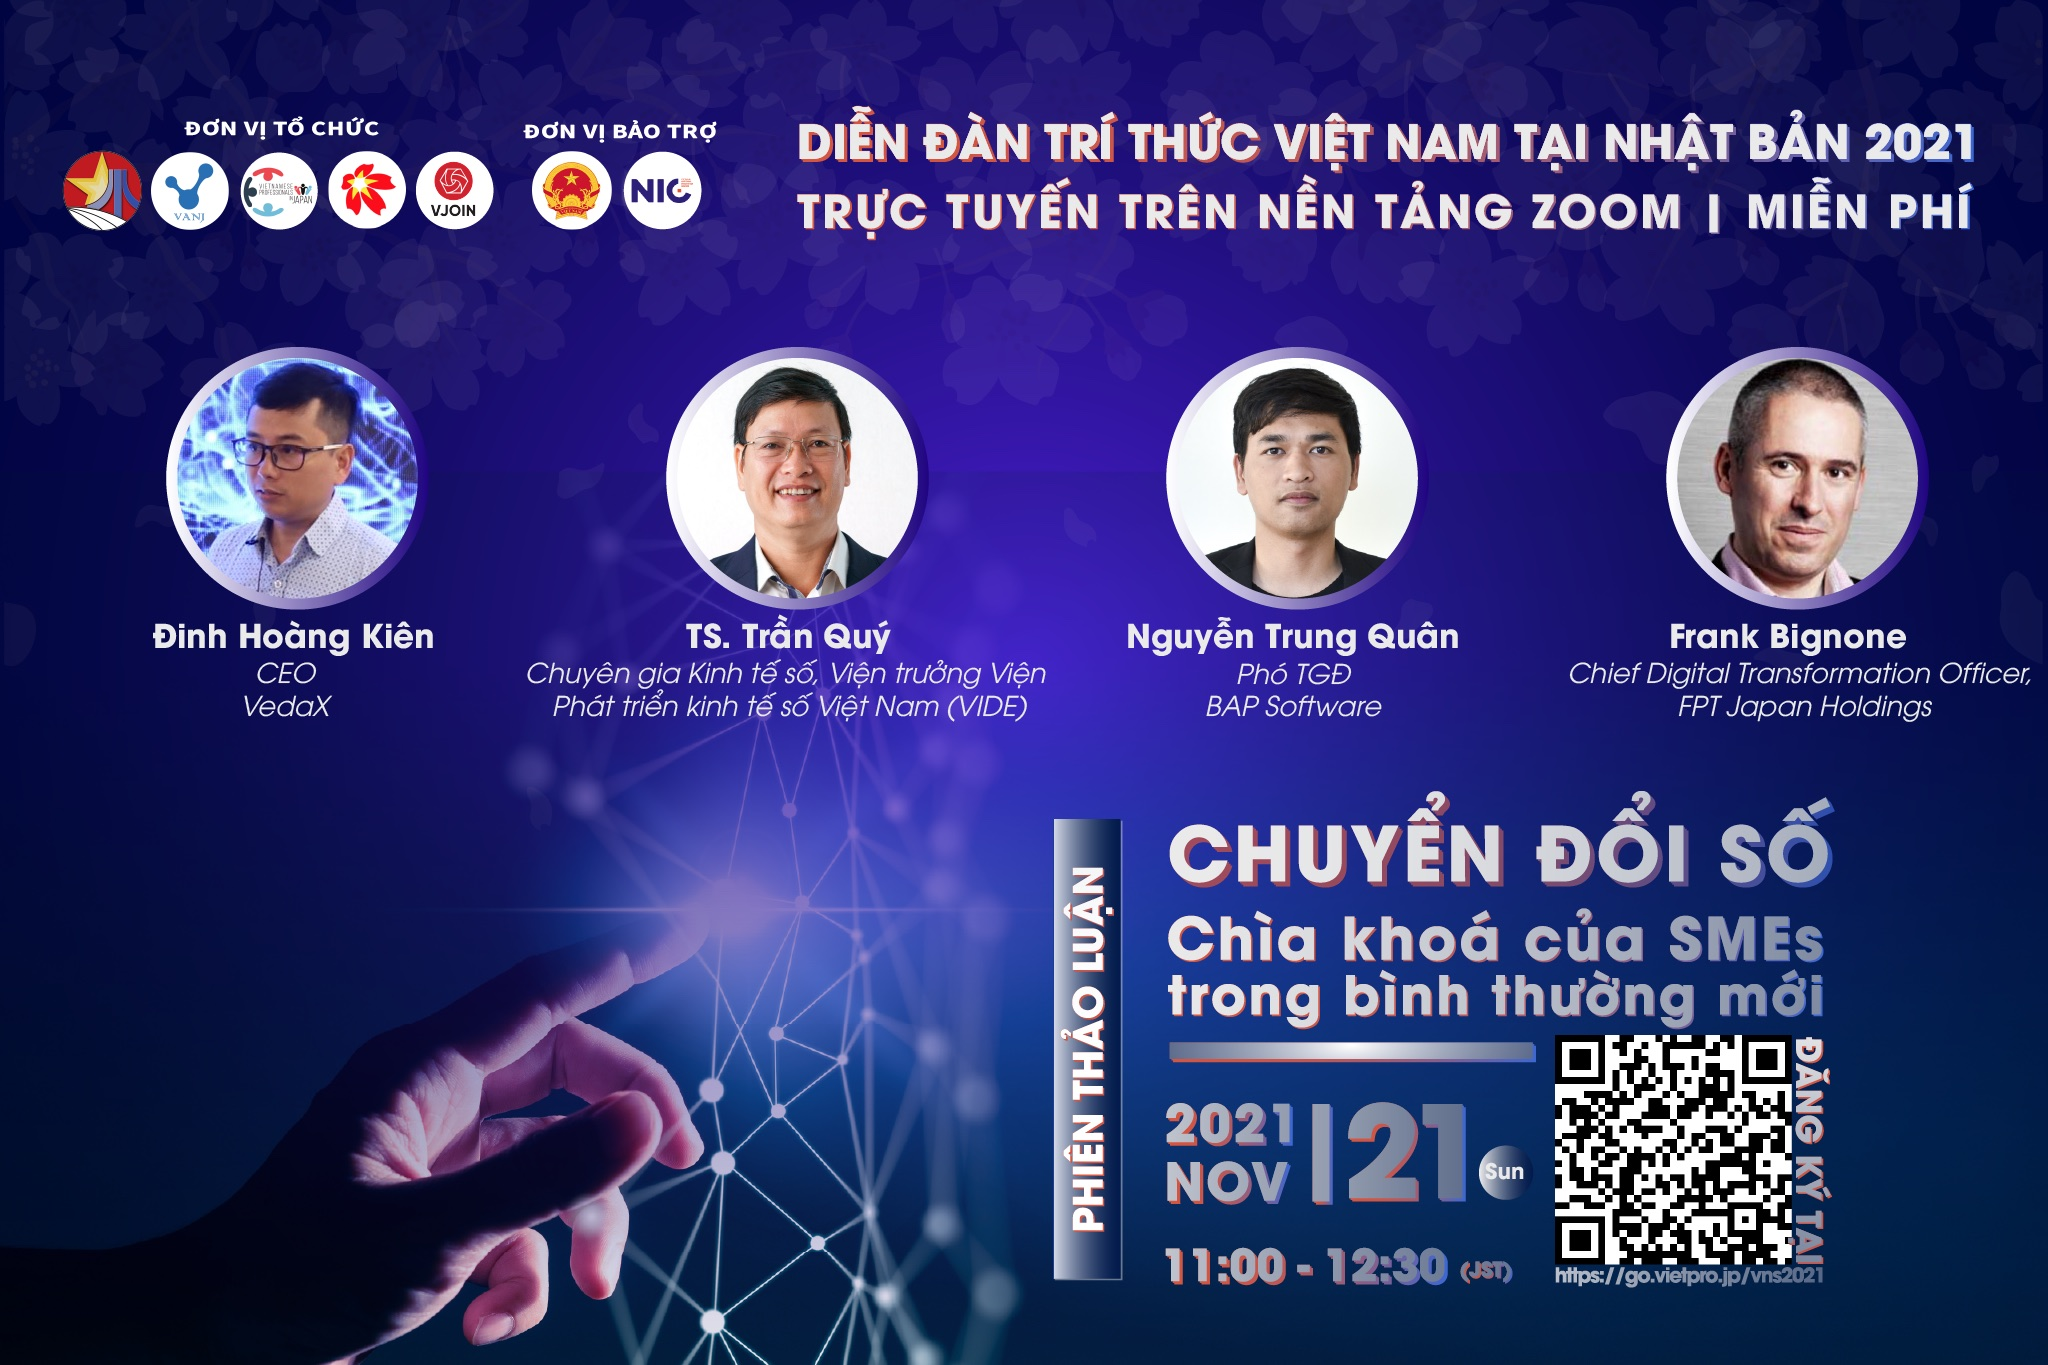
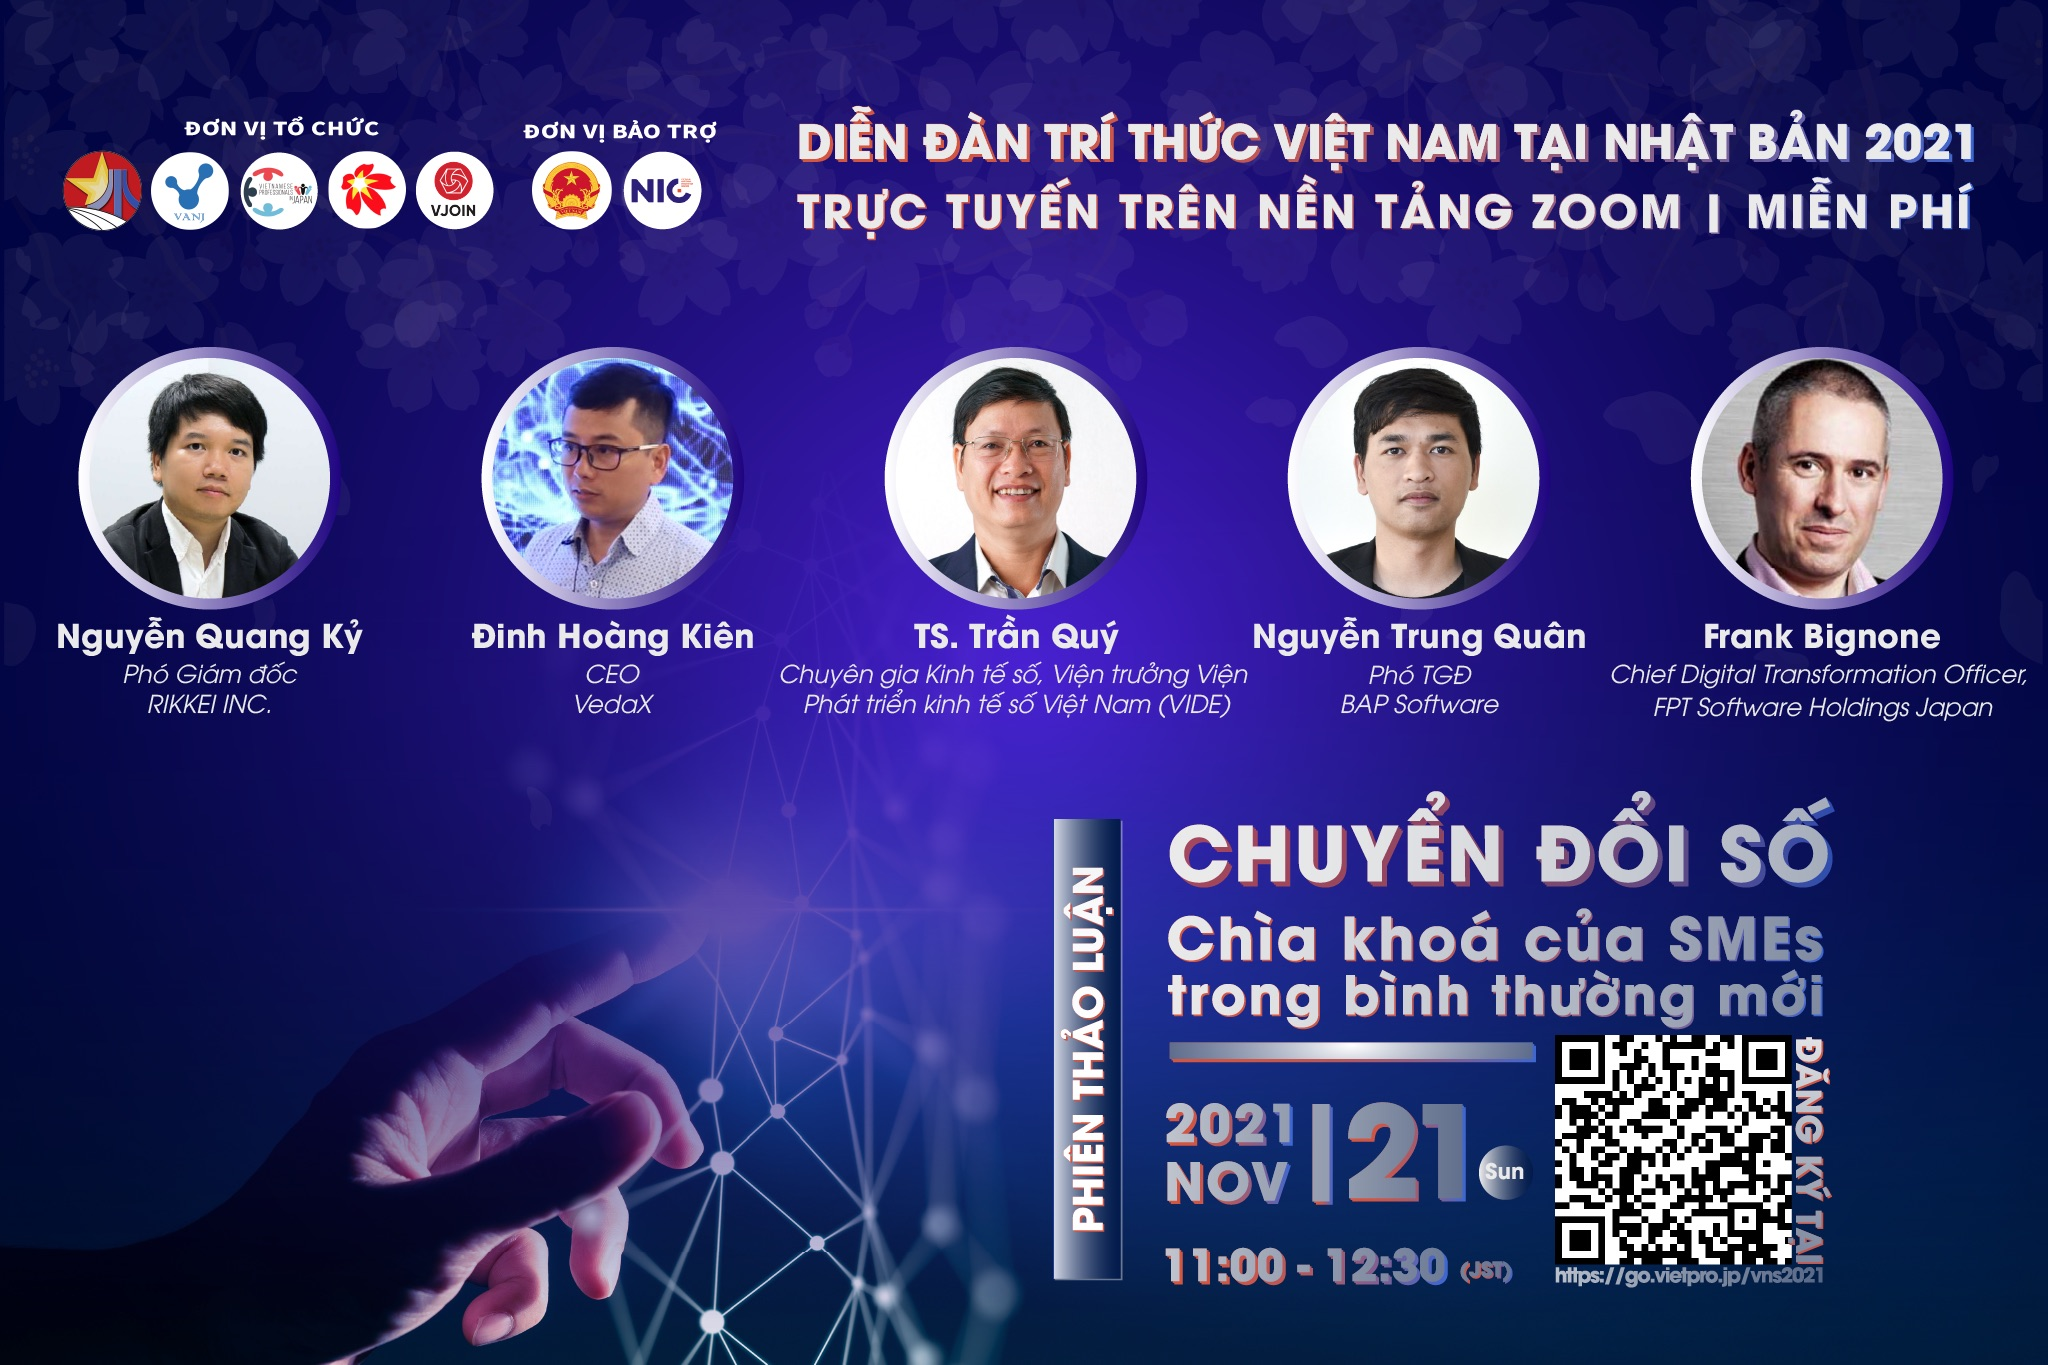
update speaker chuyen doi so

diff --git a/speaker-nguyen-quang-ky.html b/speaker-nguyen-quang-ky.html
@@ -2,7 +2,7 @@
 <html class="wide wow-animation" lang="en">
 
 <head>
-  <title>Vietnam Summit 2021: Phiên thảo luận CHUYỂN ĐỔI SỐ</title>
+  <title>Vietnam Summit in Japan 2021</title>
   <meta charset="utf-8">
   <meta name="viewport" content="width=device-width, height=device-height, initial-scale=1.0">
   <meta http-equiv="X-UA-Compatible" content="IE=edge">
@@ -15,9 +15,9 @@
   <link rel="stylesheet" href="https://unpkg.com/aos@next/dist/aos.css" />
 
   <!-- OG description  -->
-  <meta property="og:title" content="Vietnam Summit 2021: Phiên thảo luận CHUYỂN ĐỔI SỐ" />
-  <meta property="og:description" content="Chìa khoá của SMEs trong “bình thường mới”" />
-  <meta property="og:image" content="https://vietnamsummit.org/images/poster_chuyen_doi_so.jpg" />
+  <!-- <meta property="og:title" content="Vietnam Summit 2021: Phiên thảo luận SMART CITY" />
+  <meta property="og:description" content="Phiên thảo luận e-learning" />
+  <meta property="og:image" content="https://vietnamsummit.org/images/cover_background_vie.jpg" /> -->
 
   <style>
     .ie-panel {
@@ -107,111 +107,55 @@
     </header>
     <section class="section overflow-hidden mt-2" id="speaker">
       <div class="container">
-        <h4 class="mt-2">Phiên thảo luận CHUYỂN ĐỔI SỐ</h4>
+        <h4 class="mt-2">Thông tin diễn giả</h4>
         <br>
-        <h3 style="line-height: 1.1;">Chìa khoá của SMEs trong “bình thường mới”</h3>
-        <!-- <p class="speaker-title">Chủ tịch tập đoàn FPT</p> -->
-        <img src="./images/poster_chuyen_doi_so.jpg" />
+        <h3 style="line-height: 1.1;">Nguyễn Quang Kỷ
+        </h3>
+        <p class="speaker-title">Phó Giám đốc RIKKEI INC.
+        </p>
+
+        <img src="./images/speaker-nguyen-quang-ky.jpeg" />
         <br>
         <!--Begin content-->
-        <div class="small">
+        
 
 
-          <p><span style="font-size:16px"><span style="font-family:Arial"><span style="color:#000000">Đại dịch Covid-19
-                  đ&atilde; v&agrave; đang thay đổi c&aacute;ch thức m&agrave; thế giới n&agrave;y vận h&agrave;nh, ảnh
-                  hưởng kh&ocirc;ng chỉ đối với mỗi c&aacute; nh&acirc;n, m&agrave; lan rộng cả nền kinh tế to&agrave;n
-                  cầu. Để th&iacute;ch ứng với trạng th&aacute;i &ldquo;b&igrave;nh thường mới&rdquo;, c&aacute;c doanh
-                  nghiệp, đặc biệt l&agrave; c&aacute;c doanh nghiệp vừa v&agrave; nhỏ (SMEs) buộc phải tiến h&agrave;nh
-                  những thay đổi từ cải c&aacute;ch nội bộ, cải tiến c&aacute;ch thức vận h&agrave;nh doanh nghiệp đến
-                  thay đổi m&ocirc; h&igrave;nh kinh doanh. V&agrave; chuyển đổi số được xem l&agrave; xu hướng của
-                  c&aacute;c doanh nghiệp hiện nay, l&agrave; chiếc ch&igrave;a kho&aacute; quyết định cho sự
-                  ph&aacute;t triển của doanh nghiệp trong thời kỳ kh&oacute; khăn hiện tại.</span></span></span></p>
+        
 
-          <p><span style="font-size:16px"><span style="font-family:Arial"><span style="color:#000000">Mặc d&ugrave; đại
-                  dịch đ&atilde; gi&uacute;p n&acirc;ng cao nhận thức của doanh nghiệp về chuyển đổi số, cũng như vai
-                  tr&ograve; v&agrave; hiệu quả m&agrave; xu hướng n&agrave;y mang lại trong doanh nghiệp. Tuy
-                  nhi&ecirc;n để thực hiện th&agrave;nh c&ocirc;ng chuyển đổi số kh&ocirc;ng phải l&agrave; chuyện dễ
-                  d&agrave;ng. Khi &aacute;p dụng chuyển đổi số, doanh nghiệp cần phải nắm bắt nền kinh tế số, b&ecirc;n
-                  cạnh đ&oacute; l&atilde;nh đạo phải c&oacute; quyết t&acirc;m thay đổi một c&aacute;ch to&agrave;n
-                  diện, chuyển đổi từ tư duy l&agrave;m việc truyền thống sang c&aacute;ch thức l&agrave;m việc mới,
-                  li&ecirc;n tục t&igrave;m t&ograve;i, thử nghiệm v&agrave; l&agrave;m quen với việc thất bại, cũng như
-                  cần giải quyết b&agrave;i to&aacute;n tối ưu ho&aacute; được lợi &iacute;ch từ chi ph&iacute; cho
-                  c&ocirc;ng cuộc thay đổi doanh nghiệp n&agrave;y.</span></span></span></p>
 
-          <p><span style="font-size:16px"><span style="font-family:Arial"><span style="color:#000000">Chuyển đổi số -
-                  Ch&igrave;a kho&aacute; của SMEs trong &ldquo;b&igrave;nh thường mới&rdquo; sẽ l&agrave; chủ đề của
-                  phi&ecirc;n thảo luận chuy&ecirc;n s&acirc;u trong số c&aacute;c buổi tọa đ&agrave;m chuy&ecirc;n đề
-                  tại Diễn đ&agrave;n Tri thức Việt Nam Nhật Bản 2021. Th&ocirc;ng qua session n&agrave;y, những
-                  chuy&ecirc;n gia, nh&agrave; l&atilde;nh đạo doanh nghiệp đang hoạt động ở Việt Nam v&agrave; Nhật Bản
-                  sẽ đưa ra những g&oacute;c nh&igrave;n về chuyển đổi số, v&agrave; c&ugrave;ng với đ&oacute; l&agrave;
-                  những giải ph&aacute;p m&agrave; c&aacute;c doanh nghiệp đ&atilde; v&agrave; đang thực hiện để ứng
-                  ph&oacute; với đại dịch hiện nay.</span></span></span></p>
 
-          <p><span style="font-size:16px"><span style="font-family:Arial"><span style="color:#000000">C&aacute;c diễn
-                  giả tại phi&ecirc;n thảo luận :</span></span></span></p>
-
-          <ul>
-            <li style="list-style-type:disc"><span style="font-size:16px"><span style="font-family:Arial"><span
-                    style="color:#000000">Anh </span></span><a
-                  href="speaker-nguyen-quang-ky.html"
-                  style="text-decoration:none"><span style="font-family:Arial"><span style="color:#1155cc"><u>Nguyễn
-                        Quang Kỷ</u></span></span></a><span style="font-family:Arial"><span style="color:#000000"> -
-                    Ph&oacute; Gi&aacute;m đốc Rikkei Inc.</span></span></span></li>
-            <li style="list-style-type:disc"><span style="font-size:16px"><span style="font-family:Arial"><span
-                    style="color:#000000">Anh </span></span><a href="./speaker-dinh-hoang-kien.html"
-                  style="text-decoration:none"><span style="font-family:Arial"><span style="color:#1155cc"><u>Đinh
-                        Ho&agrave;ng Ki&ecirc;n</u></span></span></a><span style="font-family:Arial"><span
-                    style="color:#000000">, CEO VedaX</span></span></span></li>
-            <li style="list-style-type:disc"><span style="font-size:16px"><span style="font-family:Arial"><span
-                    style="color:#000000">TS. </span></span><a href="./speaker-tran-quy.html"
-                  style="text-decoration:none"><span style="font-family:Arial"><span style="color:#1155cc"><u>Trần
-                        Qu&yacute;</u></span></span></a><span style="font-family:Arial"><span style="color:#000000">,
-                    chuy&ecirc;n gia Kinh tế số, Viện trưởng Viện Ph&aacute;t triển kinh tế số Việt Nam
-                    (VIDE)</span></span></span></li>
-            <li style="list-style-type:disc"><span style="font-size:16px"><span style="font-family:Arial"><span
-                    style="color:#000000">Anh </span></span><a href="./speaker-nguyen-trung-quan.html"
-                  style="text-decoration:none"><span style="font-family:Arial"><span style="color:#1155cc"><u>Nguyễn
-                        Trung Qu&acirc;n</u></span></span></a><span style="font-family:Arial"><span
-                    style="color:#000000">, Ph&oacute; TGĐ BAP Software</span></span></span></li>
-            <li style="list-style-type:disc"><span style="font-size:16px"><span style="font-family:Arial"><span
-                    style="color:#000000">Mr. </span></span><a
-                  href="https://www.linkedin.com/in/frank-bignone-12046716/" style="text-decoration:none"><span
-                    style="font-family:Arial"><span style="color:#1155cc"><u>Frank Bignone</u></span></span></a><span
-                  style="font-family:Arial"><span style="color:#000000">, Chief Digital Transformation Officer, FPT
-                    Software Holdings Japan</span></span></span></li>
+        <div class="small mt-5">
+          <h4 class="mt-5">Quá trình công tác
+          </h4>
+          <ul class="mt-2">
+            <li style="list-style-type:disc"><span style="font-size:16px"><span style="font-family:Arial"><span style="color:#000000">FPT Software (2012)</span></span></span></li>
+            <li style="list-style-type:disc"><span style="font-size:16px"><span style="font-family:Arial"><span style="color:#000000">Đồng s&aacute;ng lập Rikkeisoft (2012)</span></span></span></li>
+            <li style="list-style-type:disc"><span style="font-size:16px"><span style="font-family:Arial"><span style="color:#000000">Sang Nhật, phụ tr&aacute;ch kinh doanh Rikkei INC. (2017 - nay)</span></span></span></li>    
           </ul>
 
-          <p><span style="font-size:16px"><span style="font-family:Arial"><span style="color:#000000">Được dẫn dắt
-                  v&agrave; điều phối bởi anh T&ocirc; Ki&ecirc;n</span></span></span></p>
+        </div>
 
-          <p><br />
-            <span style="font-size:16px"><span style="font-family:Arial"><span style="color:#000000">🔹 Đăng k&yacute;
-                  tham gia chương tr&igrave;nh tại link:</span></span><span style="font-family:Arial"><span
-                  style="color:#990000"> </span></span><a
-                href="https://go.vietpro.jp/vns2021?fbclid=IwAR0yHpHosNVJFTYISz1QFxT-xXMdF-sXNRowGIVgNMp2lMDmSurU34AJ-G4"
-                style="text-decoration:none"><span style="font-family:Arial"><span
-                    style="color:#1155cc"><u>https://go.vietpro.jp/vns2021</u></span></span></a></span>
-          </p>
-
-          <p>&nbsp;</p>
-
-
-          <p>&nbsp;</p>
-
-          <p>&nbsp;</p>
-
-
-
-
+        <div class="small mt-5">
+          <h4 class="mt-5">Lĩnh vực quan t&acirc;m&nbsp;
+          </h4>
+          <ul class="mt-2">
+            <li style="list-style-type:disc"><span style="font-size:16px"><span style="font-family:Arial"><span style="color:#000000">Lịch sử</span></span></span></li>
+            <li style="list-style-type:disc"><span style="font-size:16px"><span style="font-family:Arial"><span style="color:#000000">Blockchain</span></span></span></li>
+          </ul>
 
         </div>
-        <!-- <a class="btn fa-facebook-square fb-share" href="https://www.facebook.com/sharer/sharer.php?u=vietnamsummit.org/smart-city" target="_blank">
-          Chia sẻ
-        </a> -->
-        <a class="small mt-2" href="/"><span class="fa fa-arrow-left" aria-hidden="true"></span> Trở về trang chủ</a>
 
+
+      
 
       </div>
+      <!-- <a class="btn fa-facebook-square fb-share" href="https://www.facebook.com/sharer/sharer.php?u=vietnamsummit.org/nong-nghiep" target="_blank">
+          Chia sẻ
+        </a> -->
+      <a class="small mt-5" href="/"><span class="fa fa-arrow-left" aria-hidden="true"></span> Trở về trang chủ</a>
+
+
+  </div>
   </div>
   </section>
 
@@ -268,10 +212,6 @@
       margin-left: 60px;
       display: list-item;
     }
-
-    section .small p {
-      line-height: 1.1;
-    }
   </style>
   <script src="https://unpkg.com/aos@next/dist/aos.js"></script>
   <script>
@@ -300,8 +240,8 @@
   </script>
   <script type="module">
     // Import the functions you need from the SDKs you need
-    import {initializeApp} from "https://www.gstatic.com/firebasejs/9.0.1/firebase-app.js";
-    import {getAnalytics} from "https://www.gstatic.com/firebasejs/9.0.1/firebase-analytics.js";
+    import { initializeApp } from "https://www.gstatic.com/firebasejs/9.0.1/firebase-app.js";
+    import { getAnalytics } from "https://www.gstatic.com/firebasejs/9.0.1/firebase-analytics.js";
     // TODO: Add SDKs for Firebase products that you want to use
     // https://firebase.google.com/docs/web/setup#available-libraries
 
